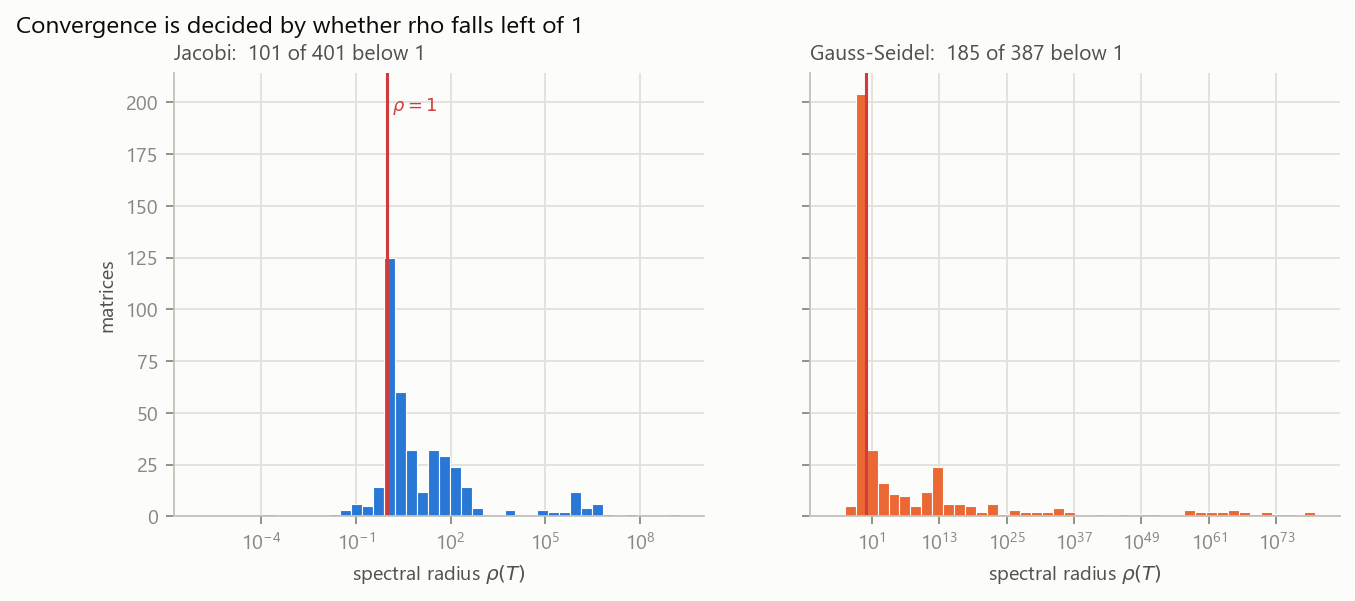
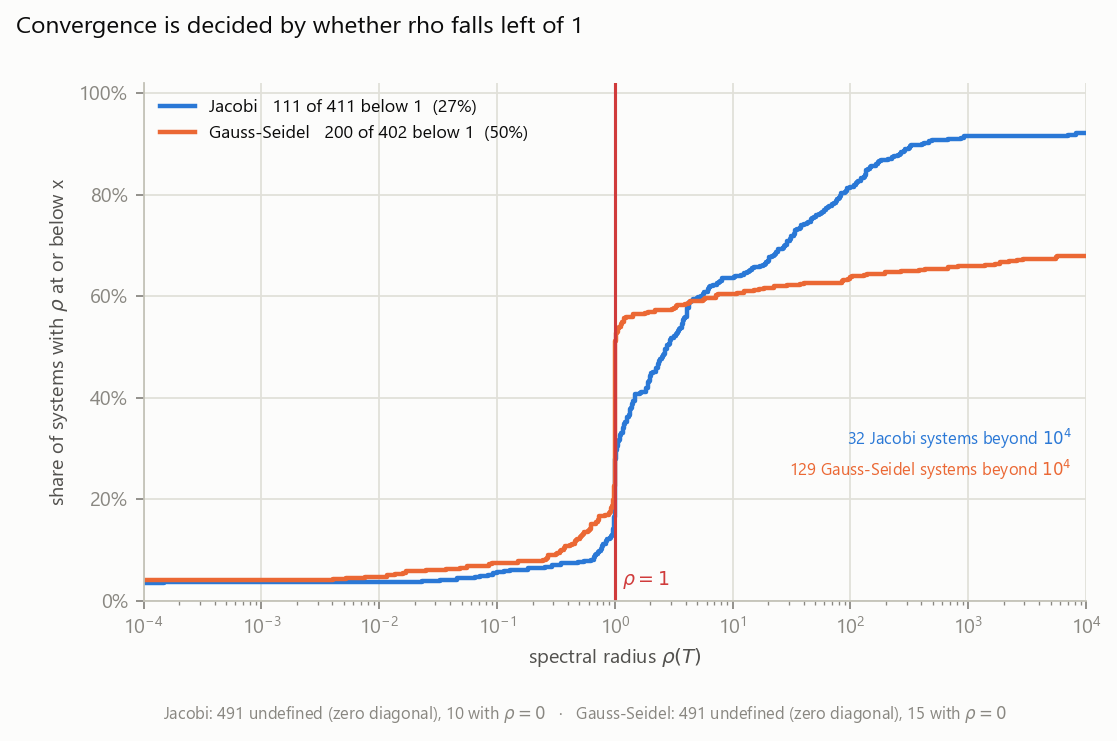
Fix the spectral figure: wrong counts, and a histogram that could not work
Three defects, two of them in the data rather than the drawing.

A log axis cannot show zero, so the histogram silently dropped every matrix with
rho = 0 -- 10 for Jacobi, 15 for Gauss-Seidel. Those are nilpotent iteration matrices,
meaning the method lands on the exact answer in one step, so the best cases in the corpus
were being left out of the 'below 1' count. It read 101 of 401; it is 111 of 411.

convergence_verdict() returned 'diverges' for a NaN spectral radius. rho is NaN when the
diagonal carries a zero and the iteration matrix does not exist, which is 491 systems --
most of Jacobi's 'diverges' column was really 'this method is undefined here'. Those are
different statements and now have different labels: 'not_applicable' is its own verdict.

The histogram itself could not be made to work. rho(T_GS) reaches 1e77, and binning
across eighty decades collapsed the entire distribution into one spike at 1. It is now a
cumulative distribution clipped to [1e-4, 1e4], where the height at which each curve
crosses rho = 1 reads directly as the fraction that converges -- Jacobi 27%, Gauss-Seidel
50% -- with the off-scale tails stated rather than drawn.

That view shows something the histogram could not: past rho = 1 the Jacobi curve keeps
climbing while Gauss-Seidel flattens, so 129 Gauss-Seidel systems sit beyond 1e4 against
32 for Jacobi. When Gauss-Seidel fails it fails far harder.

diff --git a/tools/make_figures.py b/tools/make_figures.py
@@ -311,24 +311,53 @@ def fig_dispatch_ablation(res):
 def fig_spectral(spec):
     """Where the spectral radii actually fall, against the rho = 1 threshold."""
     ok = spec[spec.get("status") == "analysed"] if "status" in spec else spec
-    fig, axes = plt.subplots(1, 2, figsize=(9.4, 3.6), sharey=True)
-    for ax, col, name, colour in ((axes[0], "rho_jacobi", "Jacobi", C1),
-                                  (axes[1], "rho_gauss_seidel", "Gauss-Seidel", C2)):
-        v = pd.to_numeric(ok.get(col), errors="coerce").dropna()
-        v = v[np.isfinite(v) & (v > 0)]
-        if v.empty:
+
+    # A cumulative distribution rather than a histogram. rho(T_GS) reaches 1e77 on the
+    # worst systems, and binning across eighty decades collapses everything into a
+    # single spike. An ECDF lets the extreme tail simply flatten out, and the height
+    # where each curve crosses rho = 1 reads directly as the fraction that converges.
+    fig, ax = plt.subplots(figsize=(7.6, 4.2))
+    notes = []
+    for col, name, colour in (("rho_jacobi", "Jacobi", C1),
+                              ("rho_gauss_seidel", "Gauss-Seidel", C2)):
+        raw = pd.to_numeric(ok.get(col), errors="coerce")
+        undefined = int(raw.isna().sum())        # zero diagonal: T does not exist
+        finite = raw[np.isfinite(raw)].sort_values()
+        if finite.empty:
             continue
-        ax.hist(v, bins=np.logspace(np.log10(max(v.min(), 1e-6)),
-                                    np.log10(max(v.max(), 1.1)), 45),
-                color=colour, edgecolor=SURFACE, linewidth=0.5)
-        ax.axvline(1.0, color="#d03b3b", linewidth=1.4)
-        ax.set_xscale("log")
-        ax.set_title(f"{name}:  {(v < 1).sum()} of {len(v)} below 1", fontsize=9.5,
-                     color=INK2, loc="left")
-        ax.set_xlabel(r"spectral radius $\rho(T)$")
-    axes[0].set_ylabel("matrices")
-    axes[0].text(1.05, axes[0].get_ylim()[1] * 0.95, r" $\rho=1$", fontsize=8,
-                 color="#d03b3b", va="top")
+        below = int((finite < 1).sum())
+        # rho == 0 means a nilpotent iteration matrix: the exact answer in one step.
+        # Those cannot sit on a log axis, so the curve starts at their share.
+        exact = int((finite == 0).sum())
+        v = finite[finite > 0]
+        y = (np.arange(len(v)) + 1 + exact) / len(finite)
+        ax.step(v, y, where="post", color=colour, lw=2,
+                label=f"{name}   {below} of {len(finite)} below 1  ({below/len(finite):.0%})")
+        ax.plot([v.iloc[0]], [(exact + 1) / len(finite)], "o", color=colour, ms=5,
+                markeredgecolor=SURFACE, markeredgewidth=1.2)
+        notes.append(f"{name}: {undefined} undefined (zero diagonal)"
+                     + (f", {exact} with $\\rho=0$" if exact else ""))
+
+    ax.axvline(1.0, color="#d03b3b", lw=1.4)
+    ax.text(1.15, 0.03, r"$\rho=1$", color="#d03b3b", fontsize=8.5)
+    ax.set_xscale("log")
+    ax.set_xlim(1e-4, 1e4)
+    ax.set_ylim(0, 1.02)
+    ax.yaxis.set_major_formatter(lambda v, _: f"{v:.0%}")
+    # Say what the clipped window hides rather than letting the curve run off.
+    for col, name, colour, dy in (("rho_jacobi", "Jacobi", C1, 0.0),
+                                  ("rho_gauss_seidel", "Gauss-Seidel", C2, 0.06)):
+        raw = pd.to_numeric(ok.get(col), errors="coerce")
+        f = raw[np.isfinite(raw)]
+        beyond = int((f > 1e4).sum())
+        if beyond:
+            ax.text(0.985, 0.30 - dy, f"{beyond} {name} systems beyond $10^4$",
+                    transform=ax.transAxes, ha="right", fontsize=7.5, color=colour)
+    ax.set_xlabel(r"spectral radius $\rho(T)$")
+    ax.set_ylabel("share of systems with $\\rho$ at or below x")
+    ax.legend(loc="upper left")
+    ax.text(0.02, -0.20, "   ·   ".join(notes), transform=ax.transAxes,
+            fontsize=7.5, color=MUTED, va="top")
     fig.suptitle("Convergence is decided by whether rho falls left of 1",
                  x=0.02, ha="left", fontsize=11, color=INK)
     save(fig, "07_spectral_radius",

diff --git a/src/solvebench/spectral.py b/src/solvebench/spectral.py
@@ -167,10 +167,17 @@ def convergence_verdict(rho, tol=None, budget=None):
     10,000. Reporting that as a prediction failure would be wrong, and reporting
     it as "converges" would be misleading. It is a third case.
 
-    Returns "diverges", "too_slow", or "converges".
+    A fourth case has to be kept apart from these three. When the diagonal carries a
+    zero the iteration matrix does not exist, so rho is NaN -- and "the method is
+    undefined here" is not the same statement as "it would diverge". Conflating them put
+    491 systems into the diverging column for Jacobi, which is most of that column.
+
+    Returns "not_applicable", "diverges", "too_slow", or "converges".
     """
     budget = config.MAX_ITERATIONS if budget is None else budget
-    if not np.isfinite(rho) or rho >= 1.0:
+    if rho is None or (isinstance(rho, float) and np.isnan(rho)):
+        return "not_applicable"
+    if not np.isfinite(rho) or rho >= 1.0:      # +inf is genuine divergence
         return "diverges"
     return "converges" if iterations_to_tolerance(rho, tol) <= budget else "too_slow"
 
